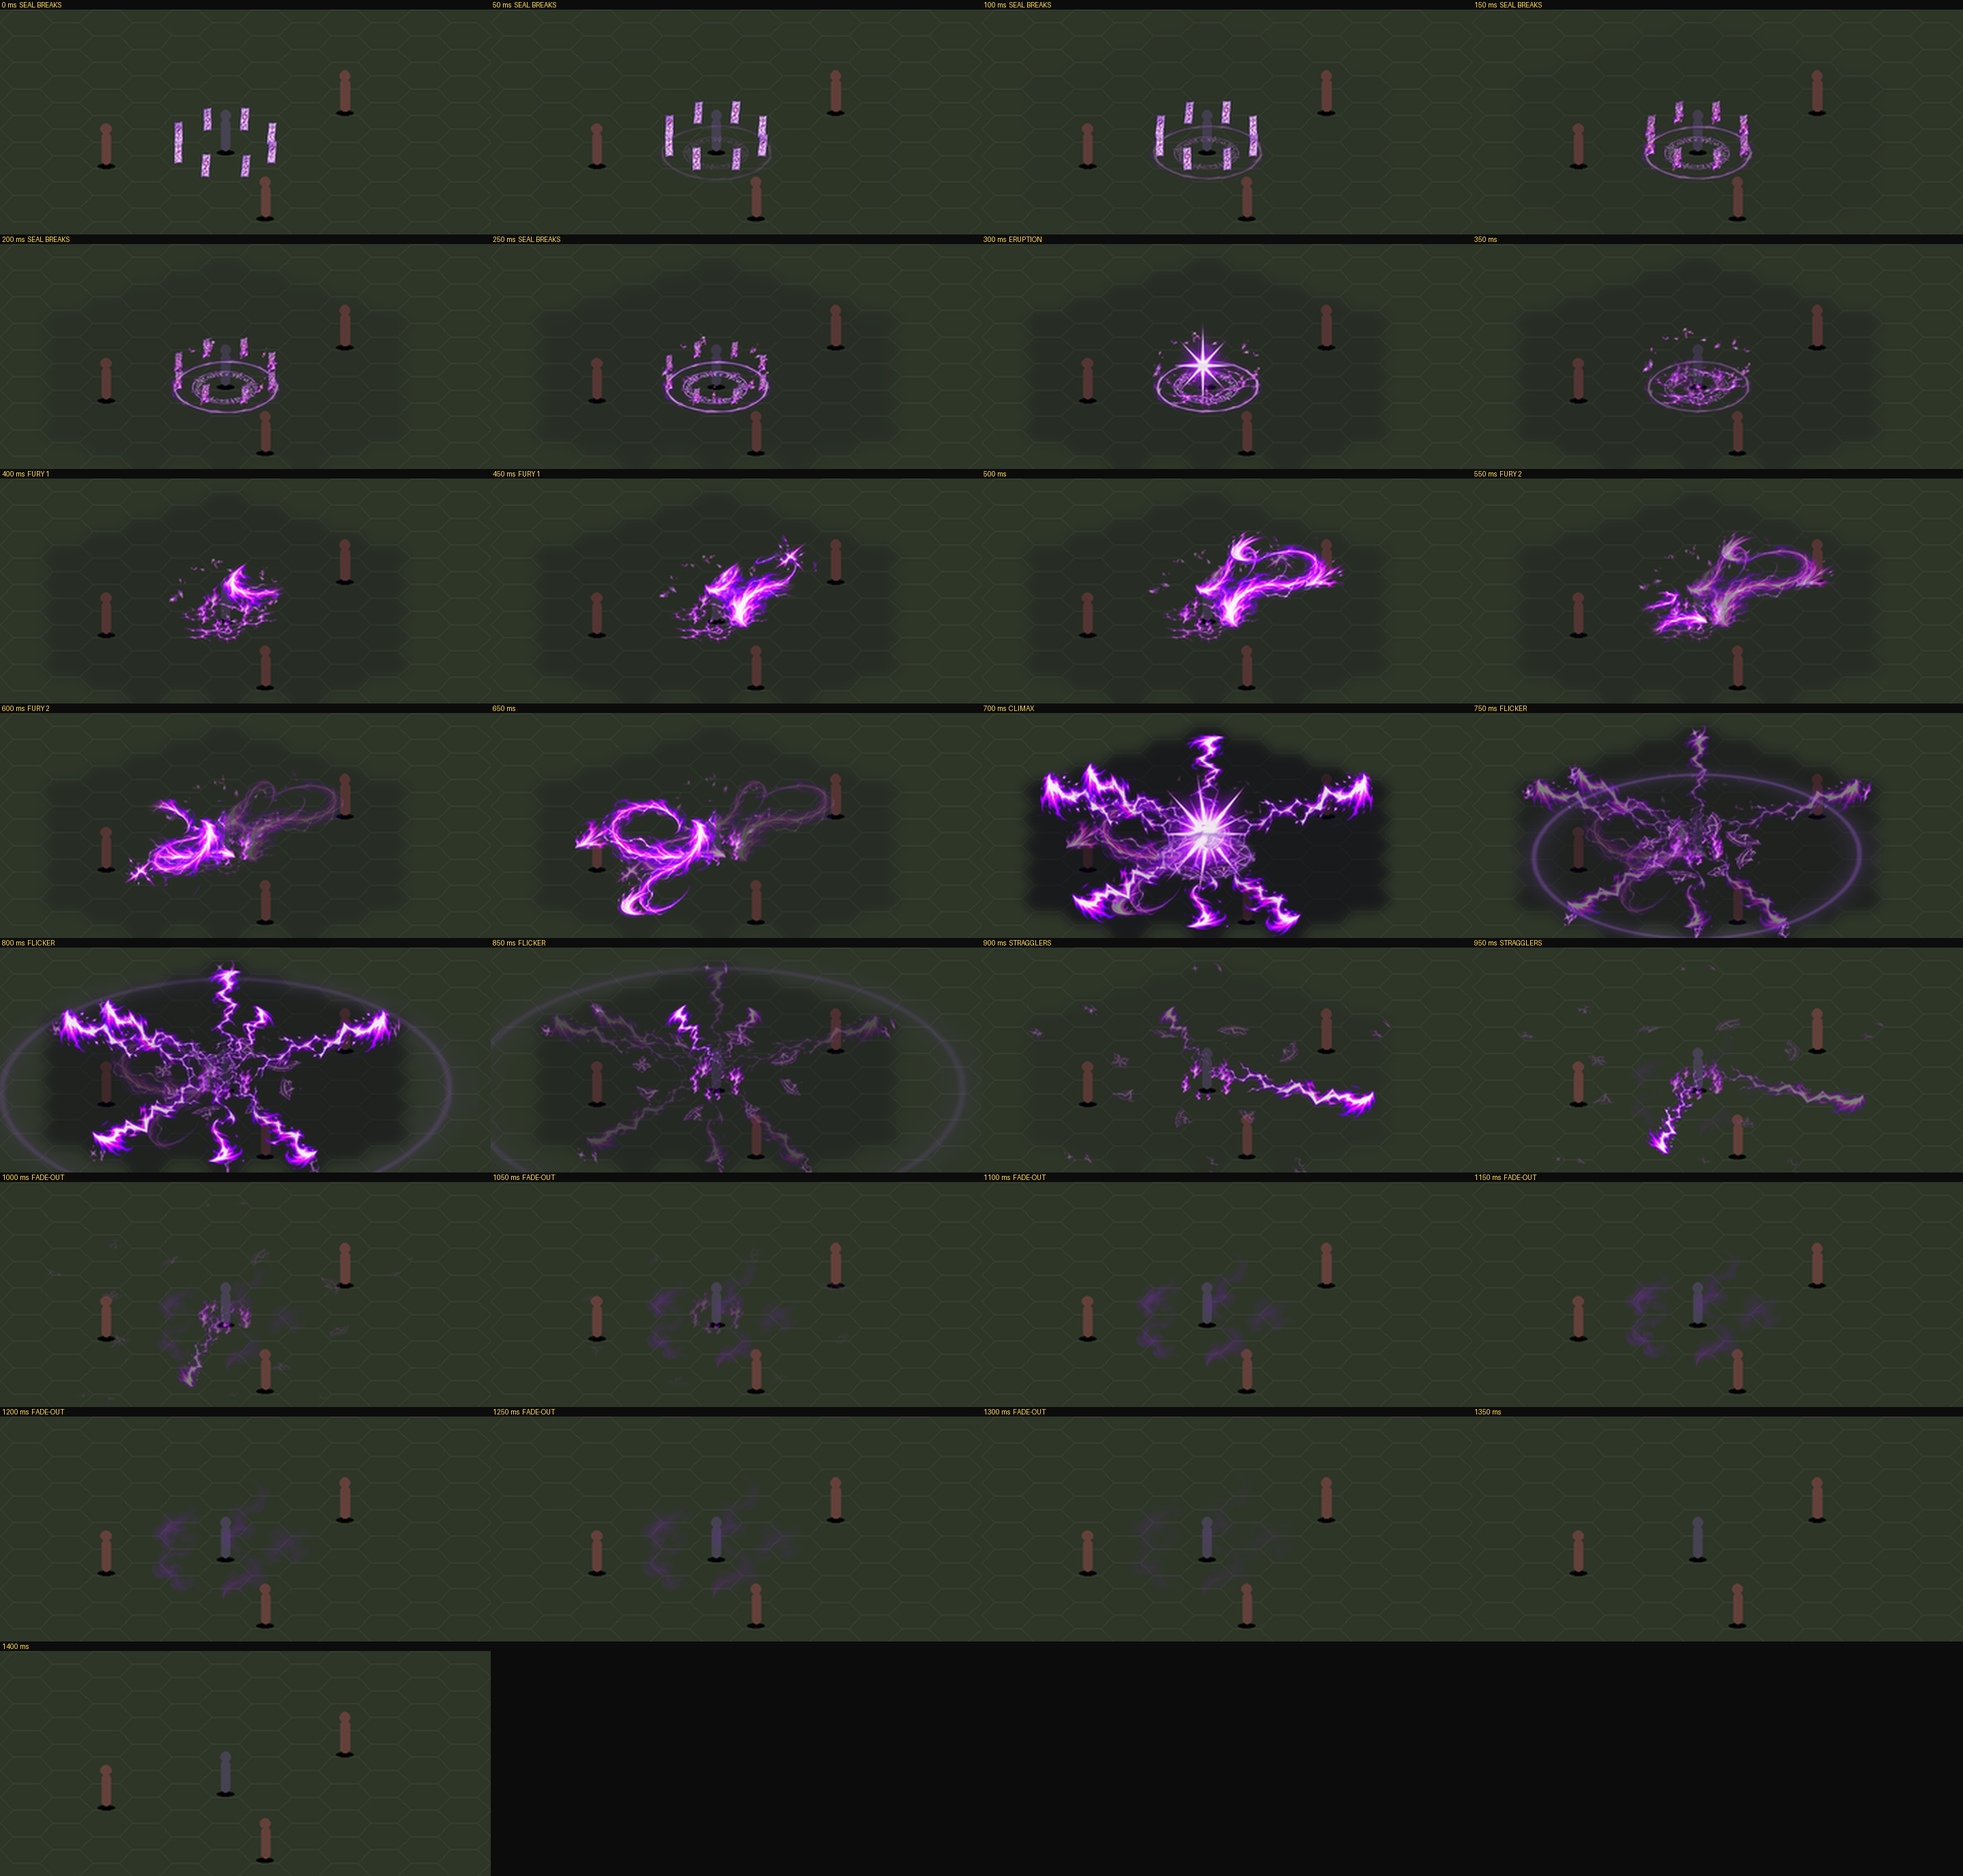
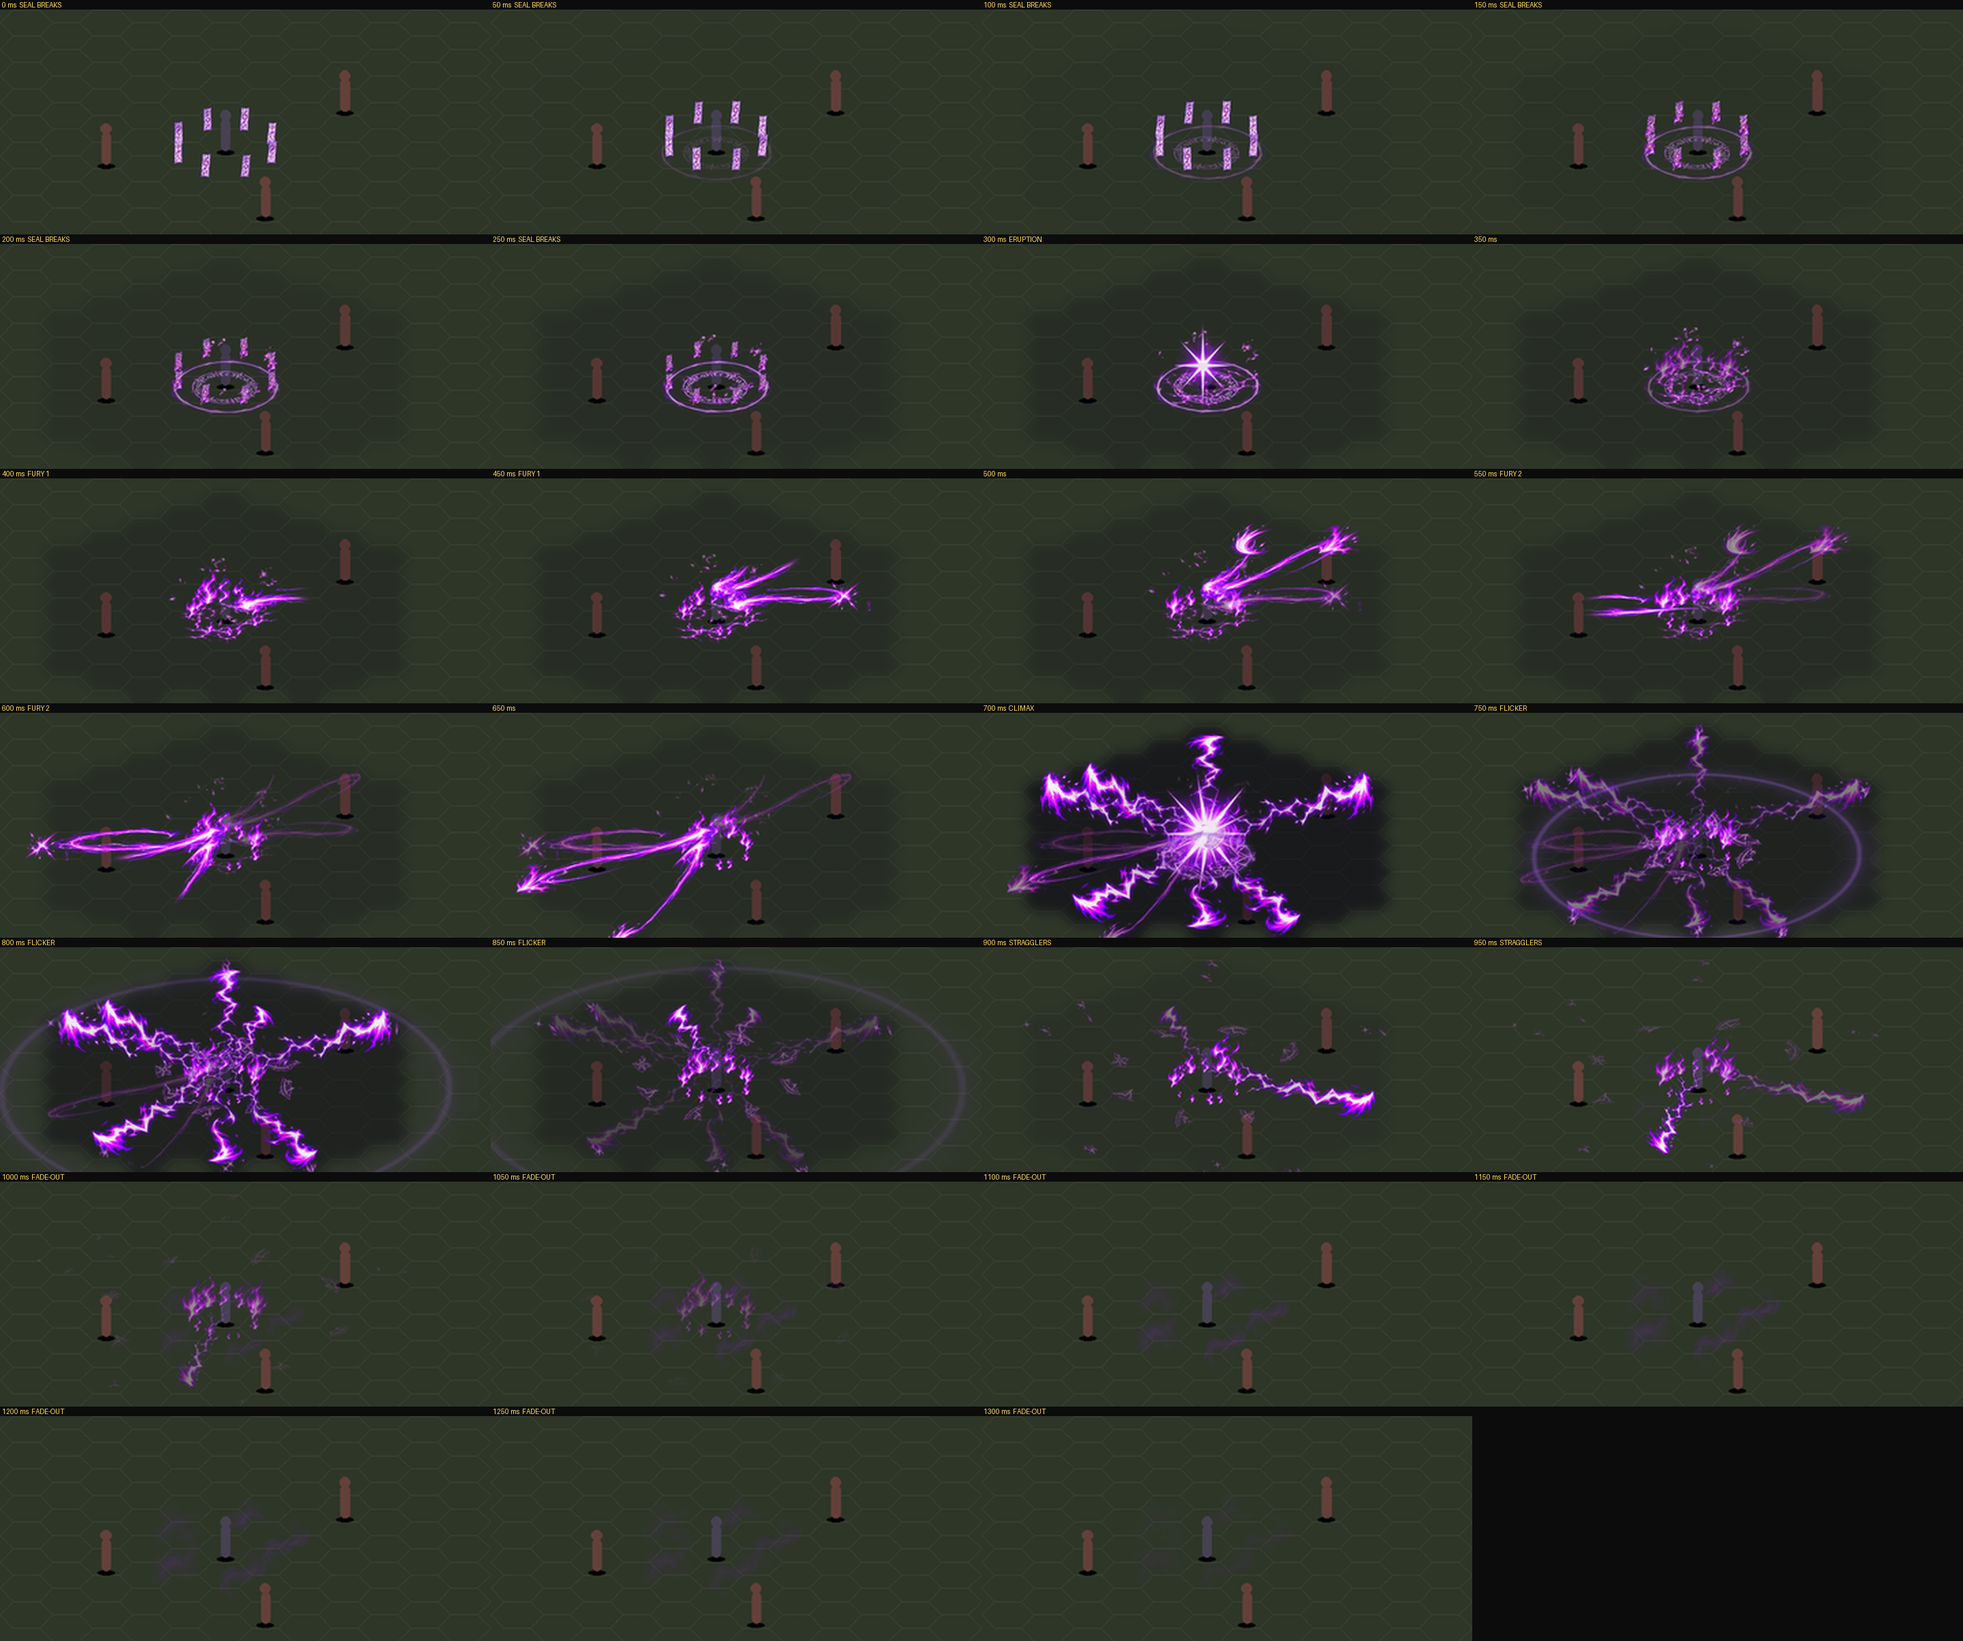
FCF v22: whips reach the area edge, stronger flames kept off the fighter, softer fade, sound cue sheet
Claude-Session: https://claude.ai/code/session_01GL8iyk8YMQ4wday8ynG1KQ

Changed region(s): [[0.0, 0.0623, 1.0, 1.0]]

diff --git a/art/jutsu_icons/forbidden_chakra_fury/animation/v22/fcf_v22.py b/art/jutsu_icons/forbidden_chakra_fury/animation/v22/fcf_v22.py
@@ -56,7 +56,7 @@ def whip(img, a, b, alpha, grow=1.0, flip=False):
     L = math.hypot(b[0] - a[0], b[1] - a[1])
     ang = math.degrees(math.atan2(b[1] - a[1], b[0] - a[0]))
     body = img.transpose(Image.FLIP_TOP_BOTTOM) if flip else img
-    body = body.resize((max(2, int(L)), max(2, int(L * body.height / body.width * 0.8))), Image.LANCZOS)
+    body = body.resize((max(2, int(L)), max(2, int(min(L * body.height / body.width * 0.8, TH * 0.9)))), Image.LANCZOS)
     if grow < 1:
         m = Image.new("L", body.size, 0)
         ImageDraw.Draw(m).rectangle((0, 0, int(body.width * grow), body.height), fill=255)
@@ -97,12 +97,12 @@ def main(seed=22):
           for i, k in enumerate(strag)]
     # --- fury beats: whips to one side, then the other (to mid/far tiles)
     def side(lo, hi, n):
-        ks = [k for k in M.AREA if BV.dist(k, M.CASTER) in (2, 3)
+        ks = [k for k in M.AREA if BV.dist(k, M.CASTER) >= 3 and k not in mains
               and lo <= math.degrees(math.atan2(M.TILES[k][1] - SRC[1], M.TILES[k][0] - SRC[0])) % 360 < hi]
         rnd.shuffle(ks)
         return ks[:n]
-    beat1 = [(400 + i * 25, end(k, 1.0), rnd.choice(WHIPS), rnd.random() < 0.5) for i, k in enumerate(side(290, 430, 3))]
-    beat2 = [(550 + i * 25, end(k, 1.0), rnd.choice(WHIPS), rnd.random() < 0.5) for i, k in enumerate(side(110, 250, 3))]
+    beat1 = [(400 + i * 25, end(k, 1.12), rnd.choice(WHIPS), rnd.random() < 0.5) for i, k in enumerate(side(290, 430, 3))]
+    beat2 = [(550 + i * 25, end(k, 1.12), rnd.choice(WHIPS), rnd.random() < 0.5) for i, k in enumerate(side(110, 250, 3))]
     whips = beat1 + beat2
     # --- tags round the user's tile, on the ground ellipse; front ones drawn after the fighter's feet line
     tag_r = TW * 0.95                      # wide enough that no tag stands on the fighter
@@ -110,12 +110,12 @@ def main(seed=22):
     ash = [(rnd.uniform(0, 360), rnd.choice(ASH), rnd.uniform(150, 320), rnd.uniform(-1, 1), rnd.uniform(0.6, 1.1))
            for _ in range(26)]
     cracks = [(i * 72 + rnd.uniform(-15, 15), CRACKS[i % len(CRACKS)]) for i in range(5)]
-    flames = [(i * 40 + rnd.uniform(-10, 10), rnd.choice(V.FLAMES), rnd.uniform(0.8, 1.2)) for i in range(9)]
+    flames = [(i * 30 + rnd.uniform(-8, 8), rnd.choice(V.FLAMES), rnd.uniform(0.9, 1.3)) for i in range(12)]
     smoke = [(i * 1.26, rnd.choice(V.SMOKE)) for i in range(5)]
     sparks = [(e, rnd.uniform(0, 2 * math.pi), rnd.choice(V.SPARKS)) for e, _, _, _ in mb for _ in range(2)]
     shards = [(i * math.pi / 4 + 0.3, D.SHARDS[i]) for i in range(8)]
     frames, labels = [], []
-    for t in range(0, 1450, STEP):
+    for t in range(0, 1350, STEP):
         fr = D.board()
         beat = ""
         dim = {CLIMAX: 0.55, CLIMAX + 50: 0.4, CLIMAX + 100: 0.4, CLIMAX + 150: 0.25, CLIMAX + 200: 0.12}.get(t, 0)
@@ -161,10 +161,11 @@ def main(seed=22):
                 put(fr, xform(V.FLASH[2], TW * 1.2, 0, 0.9), *SRC)
             for a, img, sc in flames:
                 e = min(1, (t - 300) / 100) * (1 if t < 900 else 1 - (t - 900) / 200)
-                x = GROUND[0] + math.cos(math.radians(a)) * TW * 0.42
-                y = GROUND[1] + math.sin(math.radians(a)) * TW * 0.42 * SQ
-                hgt = TH * 0.9 * sc * (0.8 + 0.25 * math.sin(t / 35 + a))
-                spr = xform(img, hgt * img.width / img.height, math.sin(t / 30 + a) * 6, 0.7 * e)
+                x = GROUND[0] + math.cos(math.radians(a)) * TW * 0.6
+                y = GROUND[1] + math.sin(math.radians(a)) * TW * 0.6 * SQ
+                front = math.sin(math.radians(a)) > 0.2          # in front of the fighter: keep them low
+                hgt = TH * (0.55 if front else 1.3) * sc * (0.8 + 0.25 * math.sin(t / 35 + a))
+                spr = xform(img, hgt * img.width / img.height, math.sin(t / 30 + a) * 6, 0.95 * e)
                 fr.alpha_composite(spr, (int(x - spr.width / 2), int(y - spr.height)))
         # ------------------------------------------------ fury beats 1 and 2: whips
         for t0, e, img, flip in whips:
@@ -217,7 +218,7 @@ def main(seed=22):
             beat = beat or "FADE-OUT"
             u = (t - CLIMAX - 200) / 450
             for a, img in smoke:
-                put(fr, xform(img, TW * (0.7 + 0.4 * u), 0, 0.35 * math.sin(math.pi * u)),
+                put(fr, xform(img, TW * (0.7 + 0.4 * u), 0, 0.2 * math.sin(math.pi * u)),
                     GROUND[0] + math.cos(a) * SEAL_R * 0.5, GROUND[1] + math.sin(a) * SEAL_R * 0.25 - 30 * u)
         frames.append(fr.convert("RGB").resize((W // 2, H // 2), Image.LANCZOS))
         labels.append((t, beat))

diff --git a/art/jutsu_icons/forbidden_chakra_fury/animation/v22/SOUND.md b/art/jutsu_icons/forbidden_chakra_fury/animation/v22/SOUND.md
@@ -1,0 +1,14 @@
+# FCF v22 sound cues
+
+Times match fcf_v22 (50 ms frames). One sound file per engine piece, so each cue rides the clip that starts on it.
+
+| ms | Cue | Character |
+|---|---|---|
+| 0 | seal hum | low, rising electric drone under paper flutter |
+| 150 | tags ignite | dry paper catching fire, crackle building |
+| 300 | seal tears | sharp rip into a short whoomp of flame |
+| 400 | whip x3 | three quick electric cracks, 25 ms apart |
+| 550 | whip x3 | same, pitched slightly lower, other side |
+| 700 | climax | hard thunder clap with a sub boom; 50 ms of near silence before it helps |
+| 750-850 | restrike | two short crackles |
+| 900-1300 | tail | fading sizzle and drifting crackle |
